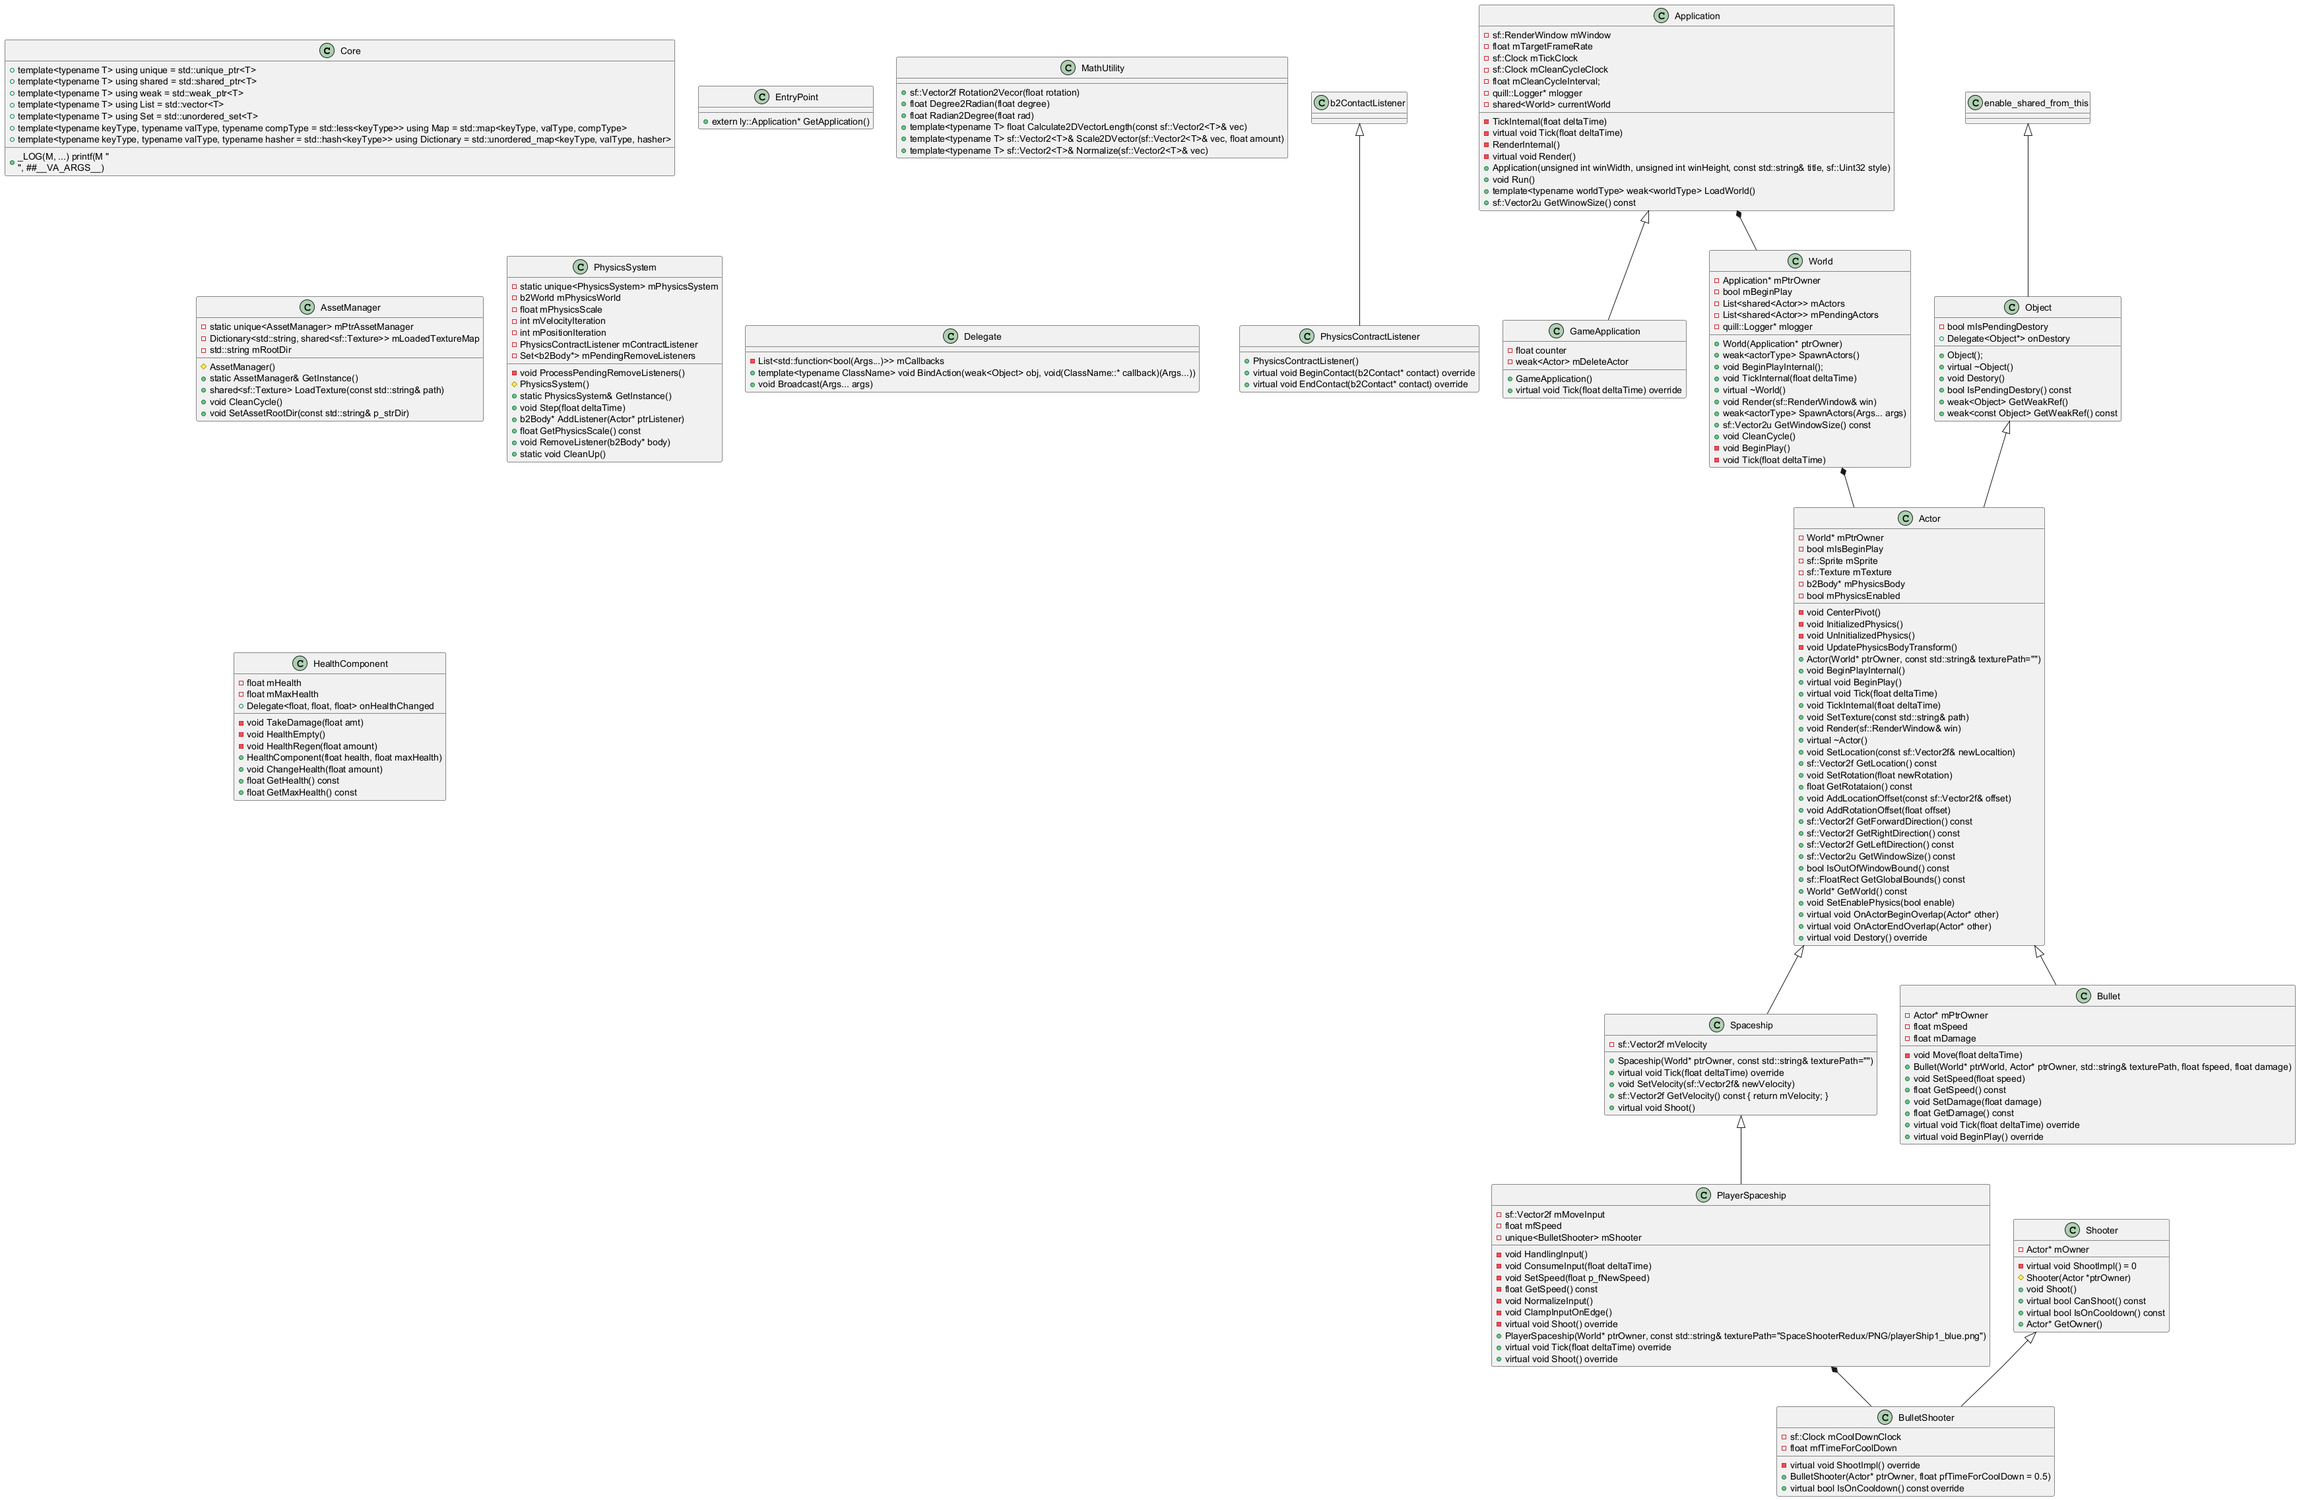
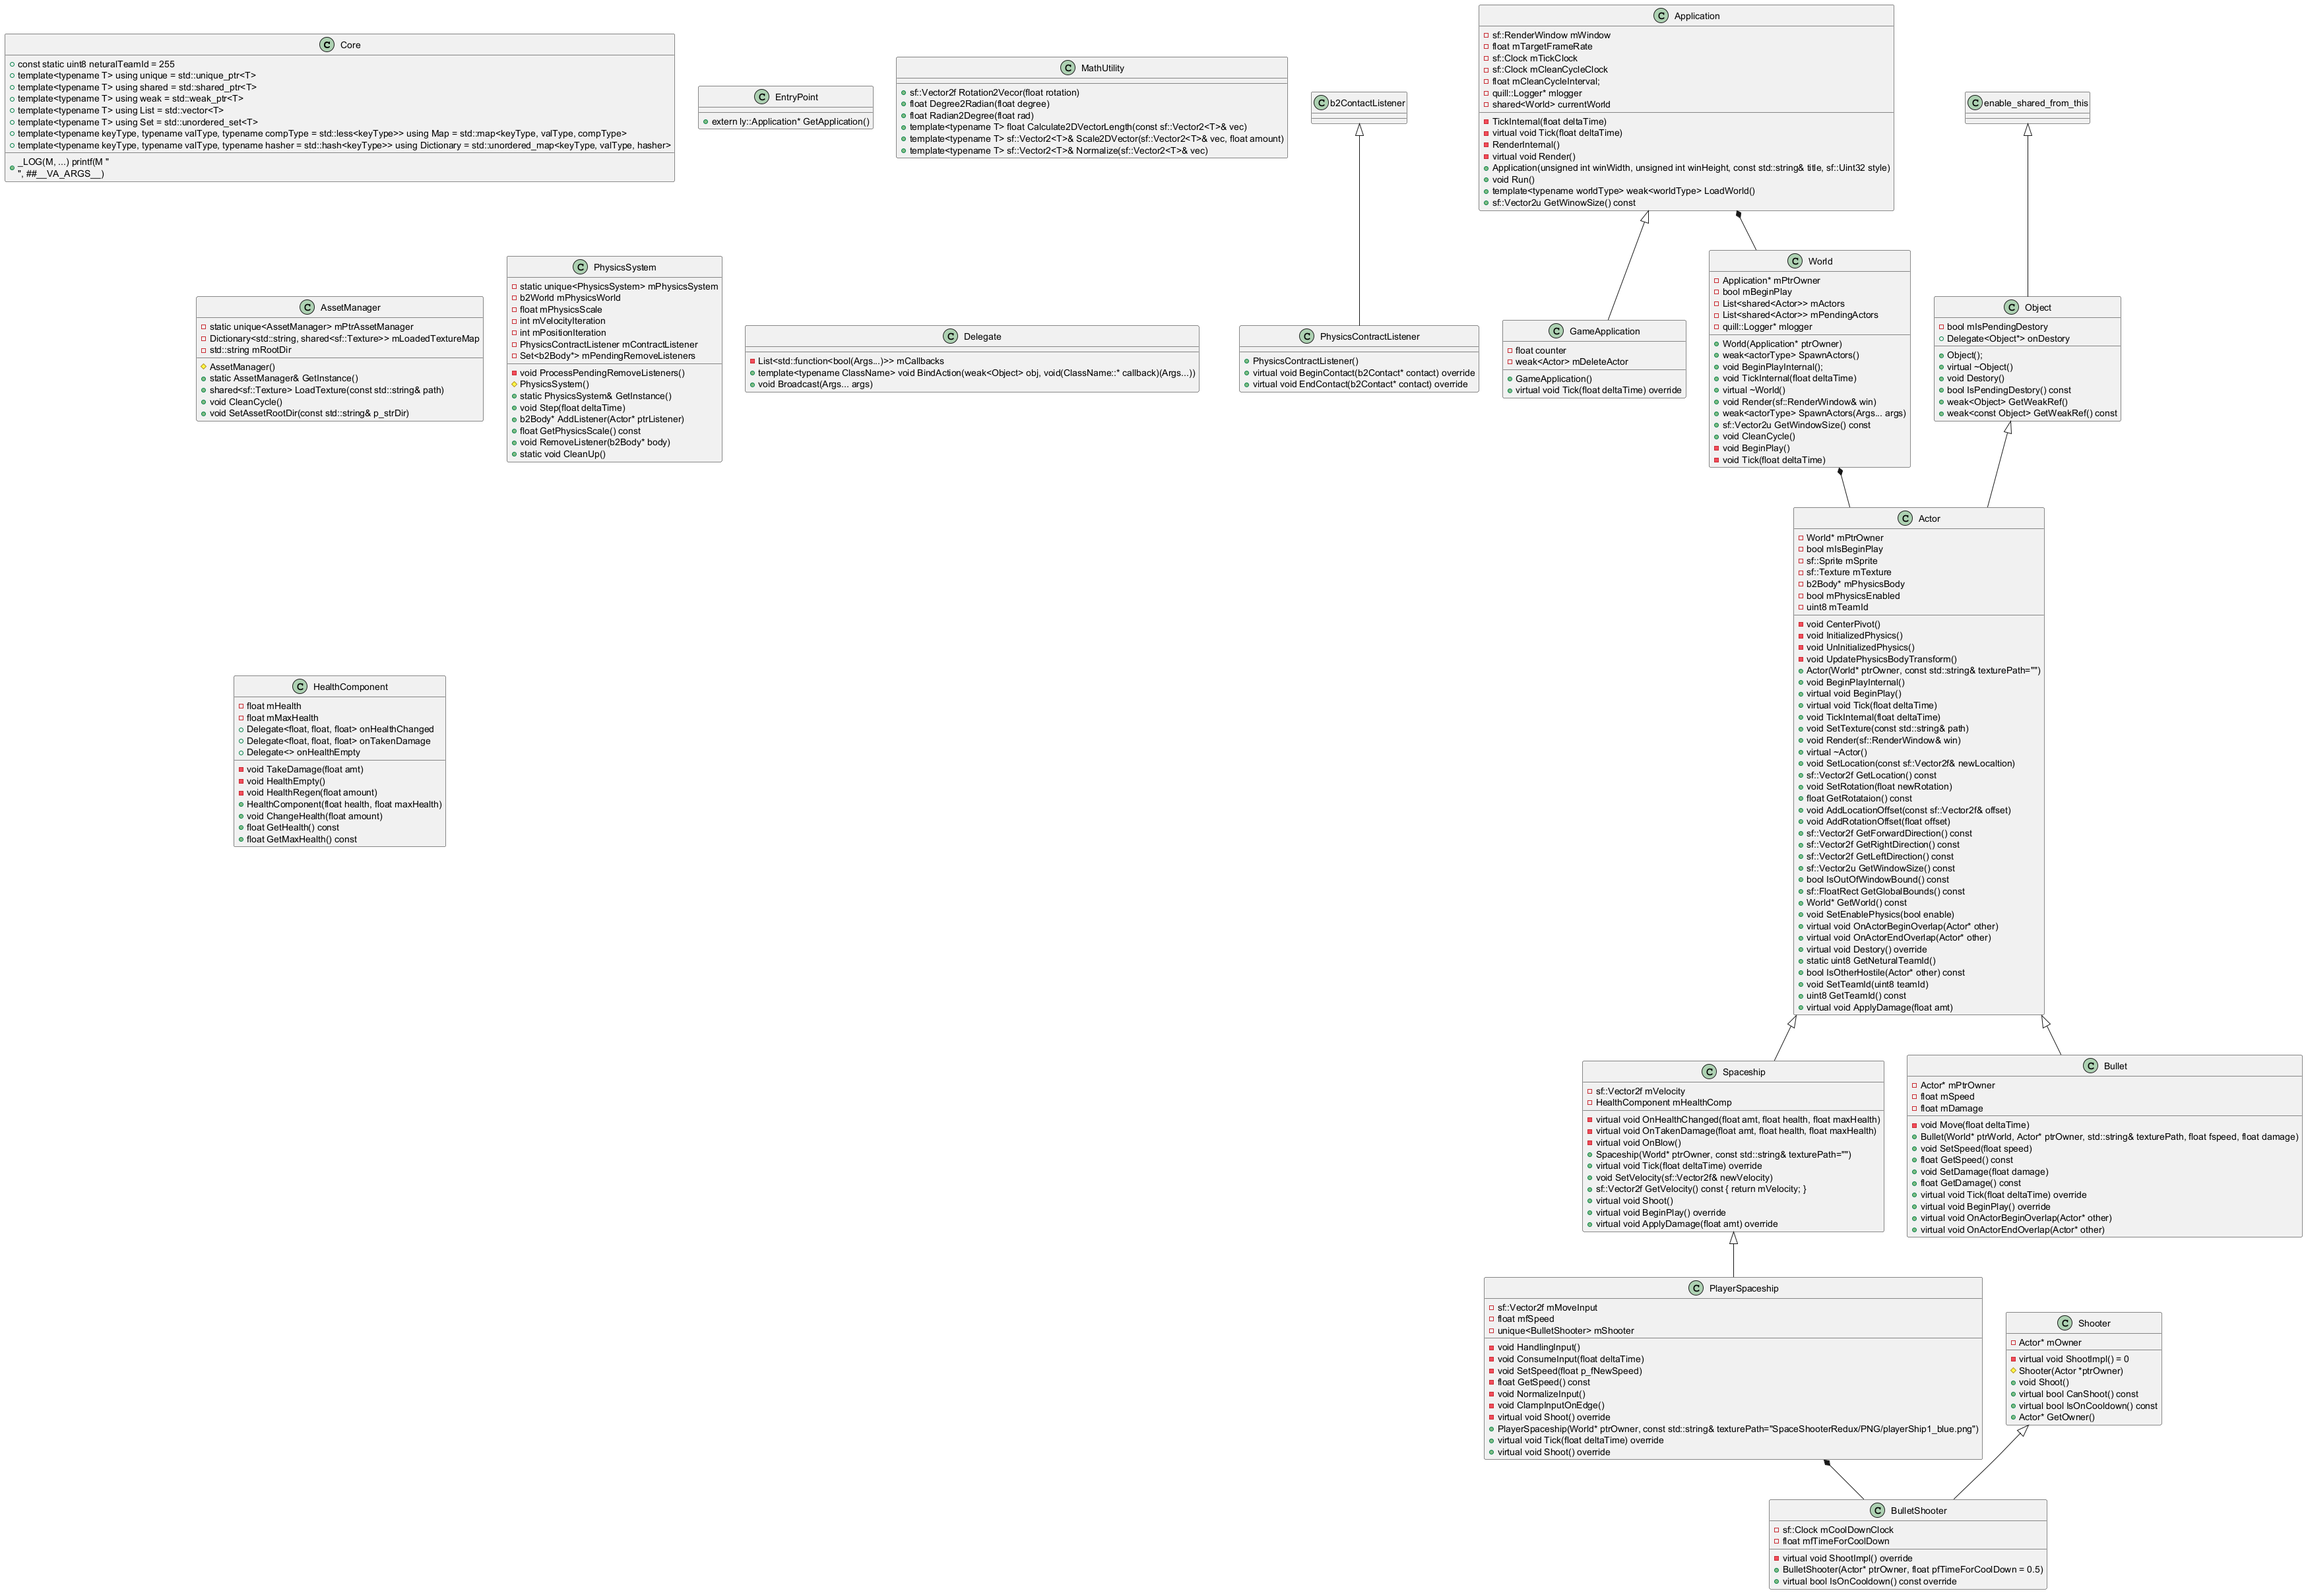
apply bullet damage mechanism

diff --git a/engine/src/framework/Actor.cpp b/engine/src/framework/Actor.cpp
@@ -15,7 +15,8 @@ ly::Actor::Actor(World* ptrOwner, const std::string& texturePath)
 	mPhysicsBody{nullptr},
 	mPhysicsEnabled{false},
 	mSprite{},
-	mTexture{}
+	mTexture{},
+	mTeamId{ GetNeturalTeamId()}
 {
 	mlogger = quill::Frontend::create_or_get_logger("Actor", quill::Frontend::create_or_get_sink<quill::ConsoleSink>("sink_id_1"));
 	mlogger->set_immediate_flush(true);
@@ -189,12 +190,12 @@ void ly::Actor::SetEnablePhysics(bool enable)
 
 void ly::Actor::OnActorBeginOverlap(Actor* other)
 {
-	LOG_INFO(mlogger, "Acotr Beging Overlap");
+	//LOG_INFO(mlogger, "Acotr Beging Overlap");
 }
 
 void ly::Actor::OnActorEndOverlap(Actor* other)
 {
-	LOG_INFO(mlogger, "Acotr End Overlap");
+	//LOG_INFO(mlogger, "Acotr End Overlap");
 }
 
 void ly::Actor::Destory()
@@ -226,4 +227,17 @@ void ly::Actor::UpdatePhysicsBodyTransform()
 		float rotation = Degree2Radian(GetRotataion());
 		mPhysicsBody->SetTransform(pos, rotation);
 	}
+}
+
+bool ly::Actor::IsOtherHostile(Actor* other) const
+{
+	if (GetTeamId() == GetNeturalTeamId() || other->GetTeamId() == GetNeturalTeamId()) {
+		return false;
+	}
+	return GetTeamId() != other->GetTeamId();
+}
+
+void ly::Actor::ApplyDamage(float amt)
+{
+
 }

diff --git a/game/src/gameplay/HealthComponent.cpp b/game/src/gameplay/HealthComponent.cpp
@@ -34,22 +34,28 @@ void ly::HealthComponent::ChangeHealth(float amount)
 			HealthEmpty();
 		}
 	}
+	/*
 	else {
 		HealthRegen(amount);
-	}
+	}*/
+
+	onHealthChanged.Broadcast(amount, mHealth, mMaxHealth);
 }
 
 void ly::HealthComponent::TakeDamage(float amt)
 {
-	LOG_INFO(mlogger, "Took Damage: {}, current health is {}/{}", amt, mHealth, mMaxHealth);
+	onTakenDamage.Broadcast(amt, mHealth, mMaxHealth);
+	//LOG_INFO(mlogger, "Took Damage: {}, current health is {}/{}", amt, mHealth, mMaxHealth);
 }
 
 void ly::HealthComponent::HealthEmpty()
 {
-	LOG_INFO(mlogger, "Dead: current health is {}/{}", mHealth, mMaxHealth);
+	onHealthEmpty.Broadcast();
+	//LOG_INFO(mlogger, "Dead: current health is {}/{}", mHealth, mMaxHealth);
 }
 
+/*
 void ly::HealthComponent::HealthRegen(float amount)
 {
 	LOG_INFO(mlogger, "Health Regen: {}, current health is {}/{}", amount, mHealth, mMaxHealth);
-}
+}*/

diff --git a/game/src/spaceship/Spaceship.cpp b/game/src/spaceship/Spaceship.cpp
@@ -35,12 +35,28 @@ void ly::Spaceship::BeginPlay()
 	Actor::BeginPlay();
 	SetEnablePhysics(true);
 	mHealthComp.onHealthChanged.BindAction(GetWeakRef(), &Spaceship::OnHealthChanged);
-	mHealthComp.onHealthChanged.Broadcast(11.f, 89.f, 100.f);
+	mHealthComp.onTakenDamage.BindAction(GetWeakRef(), &Spaceship::OnTakenDamage);
+	mHealthComp.onHealthEmpty.BindAction(GetWeakRef(), &Spaceship::OnBlow);
+	//mHealthComp.onHealthChanged.Broadcast(11.f, 89.f, 100.f);
 }
 
 void ly::Spaceship::OnHealthChanged(float amt, float health, float maxHealth)
 {
 	LOG_INFO(mlogger, "Health changed by {} and is now: {}/{}", amt, health, maxHealth);
+}
+
+void ly::Spaceship::OnTakenDamage(float amt, float health, float maxHealth)
+{
+}
+
+void ly::Spaceship::OnBlow()
+{
+	Destory();
+}
+
+void ly::Spaceship::ApplyDamage(float amt)
+{
+	mHealthComp.ChangeHealth(-amt);
 }
 
 

diff --git a/engine/include/framework/Actor.h b/engine/include/framework/Actor.h
@@ -43,6 +43,11 @@ namespace ly {
 		virtual void OnActorBeginOverlap(Actor* other);
 		virtual void OnActorEndOverlap(Actor* other);
 		virtual void Destory() override;
+		static uint8 GetNeturalTeamId() { return neturalTeamId; }
+		bool IsOtherHostile(Actor* other) const;
+		void SetTeamId(uint8 teamId) { mTeamId = teamId; }
+		uint8 GetTeamId() const { return mTeamId; }
+		virtual void ApplyDamage(float amt);
 	private:
 		void CenterPivot();
 		void InitializedPhysics();
@@ -57,5 +62,6 @@ namespace ly {
 		shared<sf::Texture> mTexture;
 		b2Body* mPhysicsBody;
 		bool mPhysicsEnabled;
+		uint8 mTeamId;
 	};
 }

diff --git a/game/src/game_framework/GameApplication.cpp b/game/src/game_framework/GameApplication.cpp
@@ -24,6 +24,7 @@ ly::GameApplication::GameApplication()
 	weak<Spaceship> testSpacesship = newWorld.lock()->SpawnActors<Spaceship>();
 	testSpacesship.lock()->SetTexture("SpaceShooterRedux/PNG/playerShip1_blue.png");
 	testSpacesship.lock()->SetLocation(sf::Vector2f{ 100, 100 });
+	testSpacesship.lock()->SetTeamId(2);
 	counter = 0;
 }
 
@@ -31,9 +32,11 @@ void ly::GameApplication::Tick(float deltaTime)
 {
 	
 	counter += deltaTime;
+	/*
 	if (counter > 10.f) {//After 2s, the actor to be deleted
 		if (!mTestPlayeSpaceship.expired()) {
 			mTestPlayeSpaceship.lock()->Destory();
 		}
 	}
+	*/
 }

diff --git a/game/src/weapon/Bullet.cpp b/game/src/weapon/Bullet.cpp
@@ -6,6 +6,7 @@ ly::Bullet::Bullet(World* ptrWorld, Actor* ptrOwner, const std::string& textureP
 	 mSpeed{ fSpeed },
 	mDamage{ fDamage }
 {
+	SetTeamId(mPtrOwner->GetTeamId());
 }
 
 void ly::Bullet::Tick(float deltaTime)
@@ -26,6 +27,19 @@ void ly::Bullet::BeginPlay()
 {
 	Actor::BeginPlay();
 	SetEnablePhysics(true);
+}
+
+void ly::Bullet::OnActorBeginOverlap(Actor* other)
+{
+	if (IsOtherHostile(other)) {
+		other->ApplyDamage(GetDamage());
+		Destory();
+	}
+}
+
+void ly::Bullet::OnActorEndOverlap(Actor* other)
+{
+	
 }
 
 void ly::Bullet::Move(float deltaTime)

diff --git a/game/include/spaceship/Spaceship.h b/game/include/spaceship/Spaceship.h
@@ -14,8 +14,11 @@ namespace ly {
 
 		//After add physics system, we can implement the BeginPlay function
 		virtual void BeginPlay() override;
+		virtual void ApplyDamage(float amt) override;
 	private:
-		void OnHealthChanged(float amt, float health, float maxHealth);
+		virtual void OnHealthChanged(float amt, float health, float maxHealth);
+		virtual void OnTakenDamage(float amt, float health, float maxHealth);
+		virtual void OnBlow();
 	private:
 		quill::Logger* mlogger;
 		sf::Vector2f mVelocity;

diff --git a/engine/include/framework/Core.h b/engine/include/framework/Core.h
@@ -26,10 +26,13 @@ namespace ly {
 	template<typename keyType, typename valType, typename hasher = std::hash<keyType>>
 	using Dictionary = std::unordered_map<keyType, valType, hasher>;
 	
-	
-
 	template<typename T>
 	using Set = std::unordered_set<T>;
+
+	//Data type for implement team id so that there are max 255 team
+	using uint8 = unsigned char;
+
+	const static uint8 neturalTeamId = 255;
 
 #define _LOG(M, ...) printf(M "\n", ##__VA_ARGS__)
 

diff --git a/game/include/gameplay/HealthComponent.h b/game/include/gameplay/HealthComponent.h
@@ -15,9 +15,11 @@ namespace ly {
 		float GetHealth() const{ return mHealth; }
 		float GetMaxHealth() const { return mMaxHealth; }
 		Delegate<float, float, float> onHealthChanged;
+		Delegate<float, float, float> onTakenDamage;
+		Delegate<> onHealthEmpty;
 	private:
 		void TakeDamage(float amt);
 		void HealthEmpty();
-		void HealthRegen(float amount);
+		//void HealthRegen(float amount);
 	};
 }

diff --git a/game/include/weapon/Bullet.h b/game/include/weapon/Bullet.h
@@ -20,6 +20,8 @@ namespace ly {
 		virtual void Tick(float deltaTime) override;
 		//After add physics system, we can implement the BeginPlay function
 		virtual void BeginPlay() override;
+		virtual void OnActorBeginOverlap(Actor* other);
+		virtual void OnActorEndOverlap(Actor* other);
 	private:
 		void Move(float deltaTime);
 	private:

diff --git a/game/src/player/PlayerSpaceship.cpp b/game/src/player/PlayerSpaceship.cpp
@@ -10,6 +10,7 @@ ly::PlayerSpaceship::PlayerSpaceship(World* ptrOwner, const std::string& texture
 	mfSpeed{200.f}, 
 	mShooter{ new BulletShooter{this, 0.1f} }
 {
+	SetTeamId(1);
 }
 
 //The Tick function is same as the update functionality

diff --git a/game/include/weapon/BulletShooter.h b/game/include/weapon/BulletShooter.h
@@ -7,6 +7,7 @@ namespace ly {
 	public:
 		BulletShooter(Actor* ptrOwner, float pfTimeForCoolDown = 0.3);
 		virtual bool IsOnCooldown() const override;
+		
 	private:
 		virtual void ShootImpl() override;
 		sf::Clock mCoolDownClock;
